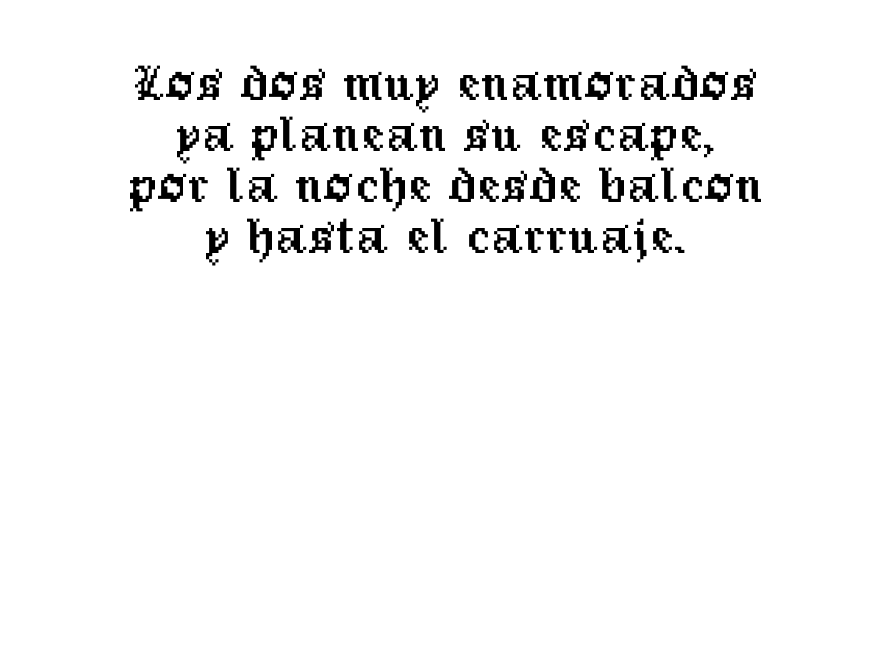
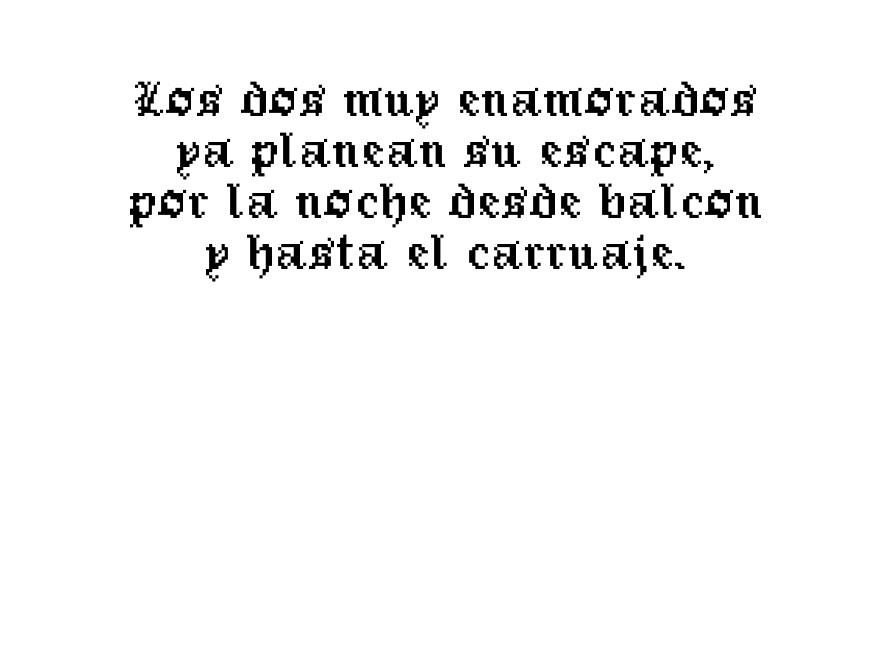
reajustados algunos textos que no encajaban bien

Changed region(s): [[0.125, 0.0938, 0.8438, 0.4062]]

diff --git a/scripts/menu_scene.js b/scripts/menu_scene.js
@@ -49,7 +49,7 @@ export default class Menu extends Phaser.Scene{
         this.play.on('pointerdown', ()=>{           
             // this.music.setLoop(true);
             this.music.play();
-            this.scene.start('Zone1', {effSound:this.effectsSound, mSound:this.musicSound, score: 0}), this.scene.stop()});
+            this.scene.start('textScene1', {effSound:this.effectsSound, mSound:this.musicSound, score: 0}), this.scene.stop()});
         this.settings.on('pointerdown', ()=>{this.scene.launch('Settings',{pause: false, effSound:this.effectsSound, mSound:this.musicSound})});
         
     }

diff --git a/index.html b/index.html
@@ -99,7 +99,7 @@
           mode: Phaser.Scale.FIT,
           autoCenter: Phaser.Scale.CENTER_BOTH,
         },
-        scene: [Boot,Menu,Settings,PauseMenu,FinalScene,TextScene1,Zone1,Zone2,Zone3,Zone4,Zone5,Zone6, Zone7, Zone8, Zone9],
+        scene: [Boot,Menu,Settings,PauseMenu,FinalScene,TextScene1, TextScene2, TextScene3, TextScene4, Zone1,Zone2,Zone3,Zone4,Zone5,Zone6, Zone7, Zone8, Zone9],
         physics: {
           default: "arcade",
           arcade: { gravity: { y:0 }, debug: false },
